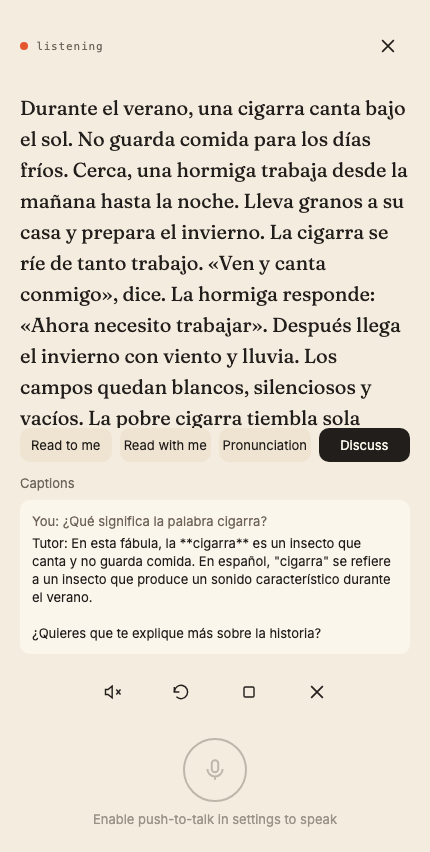
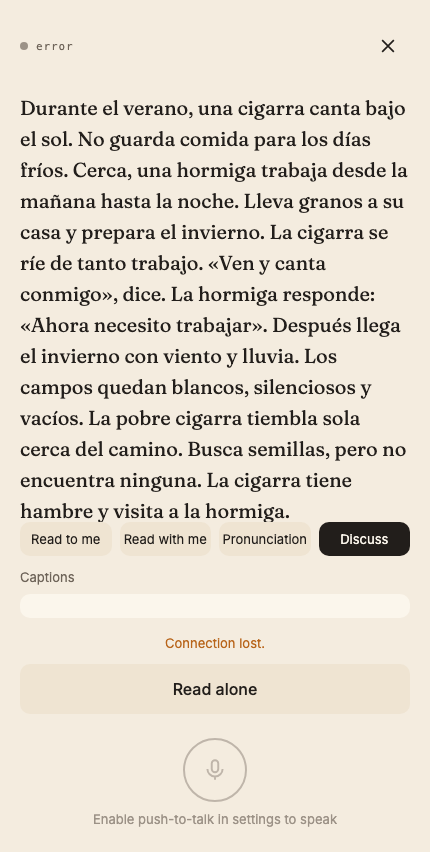
wip: deploy-session follow-ups (serverUrl origin fallback, voice error codes)

diff --git a/packages/voice/src/transports/web-audio.ts b/packages/voice/src/transports/web-audio.ts
@@ -52,6 +52,7 @@ export class WebAudioAdapter implements AudioAdapter {
   private sourceNode: MediaStreamAudioSourceNode | null = null;
   private stream: MediaStream | null = null;
   private workletUrl: string | null = null;
+  private sinkNode: GainNode | null = null;
 
   private playbackContext: AudioContext | null = null;
   private playbackQueueEndAt = 0;
@@ -62,8 +63,14 @@ export class WebAudioAdapter implements AudioAdapter {
       throw new Error('WebAudioAdapter.startCapture requires a browser environment');
     }
 
-    this.stream = await navigator.mediaDevices.getUserMedia({ audio: true });
+    this.stream = await navigator.mediaDevices.getUserMedia({
+      audio: { echoCancellation: true, noiseSuppression: true, autoGainControl: true },
+    });
     this.context = new AudioContext();
+    // Browsers create the context suspended when no user gesture is on
+    // record (the session starts on screen mount, not on a tap); a suspended
+    // context never runs the worklet, so the tutor "listens" to nothing.
+    if (this.context.state === 'suspended') await this.context.resume();
 
     const blob = new Blob([WORKLET_SOURCE], { type: 'application/javascript' });
     this.workletUrl = URL.createObjectURL(blob);
@@ -73,11 +80,25 @@ export class WebAudioAdapter implements AudioAdapter {
     this.workletNode = new AudioWorkletNode(this.context, 'capture-processor');
     this.workletNode.port.onmessage = (ev: MessageEvent<ArrayBuffer>) => onPcm16(ev.data);
     this.sourceNode.connect(this.workletNode);
+    // The render graph is only pulled from the destination: a worklet with
+    // no path to it is not guaranteed to process. Sink it through a muted
+    // gain so capture runs without the mic being audible.
+    this.sinkNode = this.context.createGain();
+    this.sinkNode.gain.value = 0;
+    this.workletNode.connect(this.sinkNode);
+    this.sinkNode.connect(this.context.destination);
+  }
+
+  /** True once the capture graph is running (for diagnostics/tests). */
+  get capturing(): boolean {
+    return this.context?.state === 'running' && this.workletNode !== null;
   }
 
   stopCapture(): void {
     this.workletNode?.disconnect();
     this.sourceNode?.disconnect();
+    this.sinkNode?.disconnect();
+    this.sinkNode = null;
     this.stream?.getTracks().forEach((t) => t.stop());
     if (this.workletUrl) URL.revokeObjectURL(this.workletUrl);
     this.workletNode = null;

diff --git a/packages/voice/src/local-cascade.ts b/packages/voice/src/local-cascade.ts
@@ -121,9 +121,22 @@ export class LocalCascadeProvider implements VoiceProvider {
 
     ws.addEventListener('open', () => {
       this.reconnectAttempted = false;
-      void this.audio.startCapture((buf) => {
-        if (ws.readyState === ws.OPEN) ws.send(buf);
-      });
+      // A capture failure (mic permission denied, no input device, a
+      // suspended AudioContext) used to be swallowed here, leaving the
+      // session in 'listening' while no audio ever reached the server.
+      this.audio
+        .startCapture((buf) => {
+          if (ws.readyState === ws.OPEN) ws.send(buf);
+        })
+        .catch((err: unknown) => {
+          this.emit({
+            type: 'error',
+            code: 'mic_unavailable',
+            message: err instanceof Error ? `${err.name}: ${err.message}` : String(err),
+            recoverable: false,
+          });
+          this.emit({ type: 'state', state: 'error' });
+        });
     });
 
     ws.addEventListener('message', (ev: MessageEvent) => {

diff --git a/apps/client/src/voice/sessionManager.ts b/apps/client/src/voice/sessionManager.ts
@@ -81,9 +81,11 @@ export function startSession(params: {
     onReading: (tokenIds) => useSottoStore.getState().setReadingTokenIds(tokenIds),
     onLimit: (reason) => useSottoStore.getState().setLimitReason(reason),
     onError: (entry) =>
-      useSottoStore
-        .getState()
-        .setVoiceError({ message: entry.message, recoverable: entry.recoverable }),
+      useSottoStore.getState().setVoiceError({
+        code: entry.code,
+        message: entry.message,
+        recoverable: entry.recoverable,
+      }),
     onToolEvent: (entry) => useSottoStore.getState().pushToolEvent(entry),
   });
 

diff --git a/apps/client/app/voice/[bookId].tsx b/apps/client/app/voice/[bookId].tsx
@@ -241,7 +241,11 @@ export default function VoiceScreen() {
       ) : isBroken ? (
         <View style={styles.recovery}>
           <Text role="caption" color="warn" style={styles.recoveryText}>
-            {session.limitReason ? t('voice.limitReached') : t('voice.connectionIssue')}
+            {session.limitReason
+              ? t('voice.limitReached')
+              : session.error?.code === 'mic_unavailable'
+                ? t('voice.micUnavailable')
+                : t('voice.connectionIssue')}
           </Text>
           <Button
             title={t('voice.readAlone')}

diff --git a/apps/client/src/state/createStore.ts b/apps/client/src/state/createStore.ts
@@ -96,7 +96,7 @@ export interface SottoState {
    * never persisted. */
   readingTokenIds: string[];
   explanation: { tokenId?: string; title: string; body: string; kind: string } | null;
-  voiceError: { message: string; recoverable: boolean } | null;
+  voiceError: { code?: string; message: string; recoverable: boolean } | null;
   limitReason: 'max_duration' | 'idle' | null;
   setSessionRecord(record: VoiceSessionRecord | null): void;
   patchSessionRecord(patch: Partial<VoiceSessionRecord>): void;
